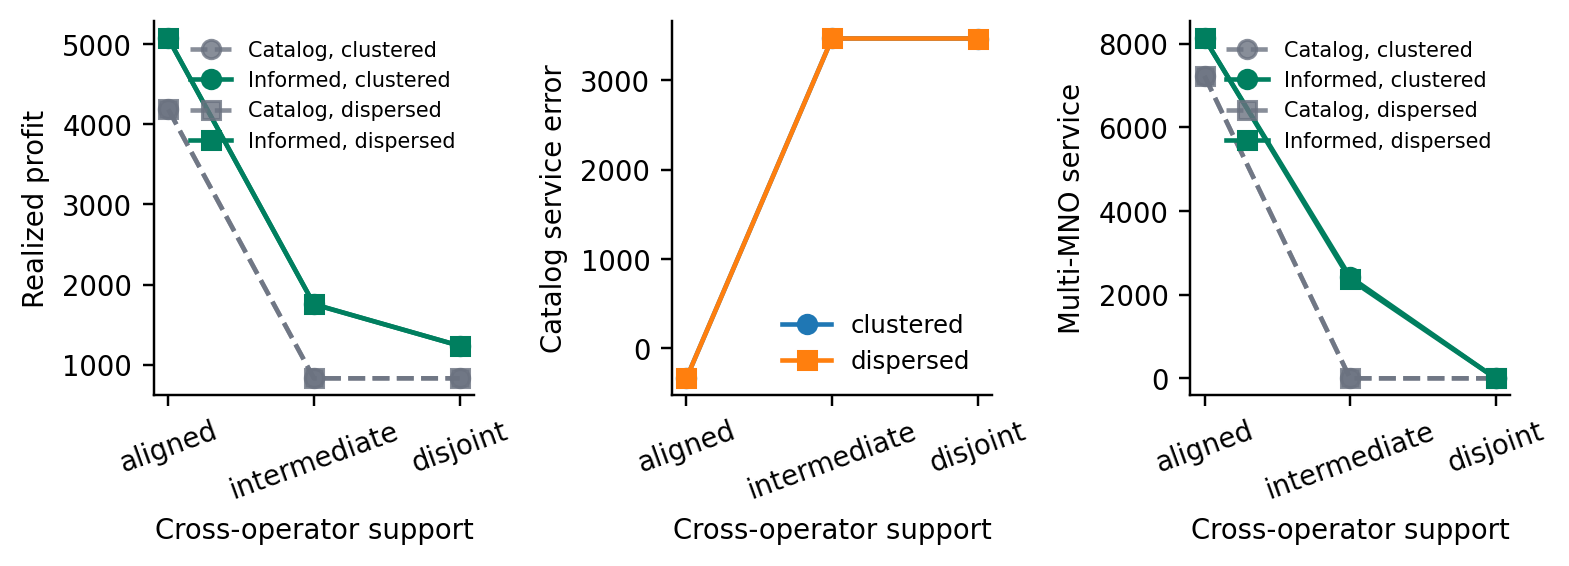
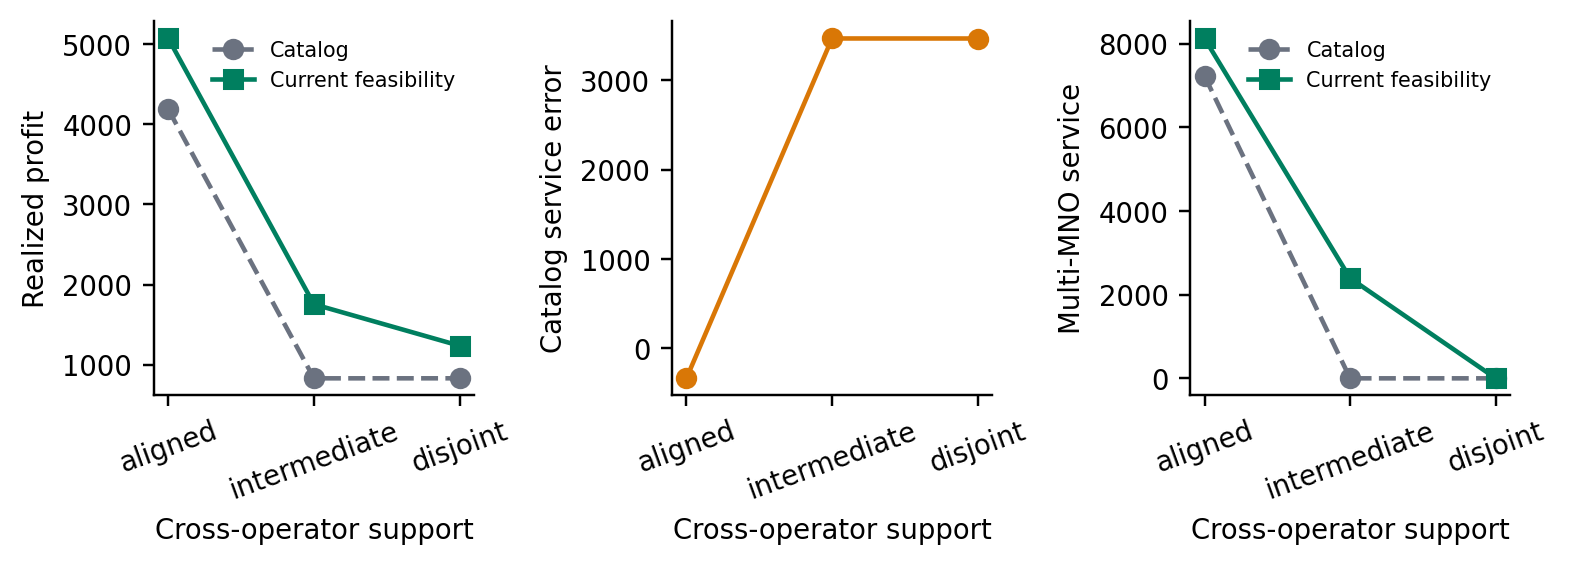
Clarify overlap and deployment figure legends

diff --git a/economic_value/generate_extension_plots.py b/economic_value/generate_extension_plots.py
@@ -49,27 +49,24 @@ def main() -> None:
 
     overlap = pd.read_csv(summary / "controlled_overlap_mechanism_summary.csv")
     order = ["aligned", "intermediate", "disjoint"]
+    data = overlap.groupby("overlap").mean(numeric_only=True).loc[order]
     fig, axes = plt.subplots(1, 3, figsize=(7.2, 2.65))
-    for pattern, marker in (("clustered", "o"), ("dispersed", "s")):
-        data = overlap[overlap.support_pattern == pattern].set_index("overlap").loc[order]
-        axes[0].plot(order, data.catalog_profit, marker=marker, linestyle="--",
-                     color=COLORS["catalog"], alpha=.8, label=f"Catalog, {pattern}")
-        axes[0].plot(order, data.informed_profit, marker=marker,
-                     color=COLORS["informed"], label=f"Informed, {pattern}")
-        axes[1].plot(order, data.catalog_support_overestimate if "catalog_support_overestimate" in data else
-                     data.catalog_predicted_service - data.catalog_actual_service,
-                     marker=marker, label=pattern)
-        axes[2].plot(order, data.catalog_multi_operator_volume, marker=marker, linestyle="--",
-                     color=COLORS["catalog"], alpha=.8, label=f"Catalog, {pattern}")
-        axes[2].plot(order, data.informed_multi_operator_volume, marker=marker,
-                     color=COLORS["informed"], label=f"Informed, {pattern}")
+    axes[0].plot(order, data.catalog_profit, marker="o", linestyle="--",
+                 color=COLORS["catalog"], label="Catalog")
+    axes[0].plot(order, data.informed_profit, marker="s",
+                 color=COLORS["informed"], label="Current feasibility")
+    axes[1].plot(order, data.catalog_predicted_service - data.catalog_actual_service,
+                 marker="o", color=COLORS["accent"])
+    axes[2].plot(order, data.catalog_multi_operator_volume, marker="o", linestyle="--",
+                 color=COLORS["catalog"], label="Catalog")
+    axes[2].plot(order, data.informed_multi_operator_volume, marker="s",
+                 color=COLORS["informed"], label="Current feasibility")
     axes[0].set(ylabel="Realized profit", xlabel="Cross-operator support")
     axes[1].set(ylabel="Catalog service error", xlabel="Cross-operator support")
     axes[2].set(ylabel="Multi-MNO service", xlabel="Cross-operator support")
     for axis in axes:
         axis.tick_params(axis="x", rotation=20)
     axes[0].legend(frameon=False, fontsize=6.8)
-    axes[1].legend(frameon=False)
     axes[2].legend(frameon=False, fontsize=6.8)
     fig.tight_layout()
     _save(fig, args.output / "overlap_mechanism.png")
@@ -216,7 +213,8 @@ def main() -> None:
         axes[0].scatter(sites.loc[mask, "x"], sites.loc[mask, "y"], marker=marker,
                         s=95, c=color, edgecolor="white", linewidth=.7, label=label)
     axes[0].set(xlabel="Synthetic east-west coordinate", ylabel="Synthetic north-south coordinate")
-    axes[0].legend(frameon=False, fontsize=7, ncol=2)
+    axes[0].legend(loc="lower left", bbox_to_anchor=(0, 1.01),
+                   frameon=False, fontsize=7, ncol=2)
     components = [summary_json["revenue_difference"], -summary_json["fixed_cost_difference"],
                   -summary_json["variable_cost_difference"]]
     axes[1].bar(["Revenue", "Fixed cost", "Variable cost"], components,
